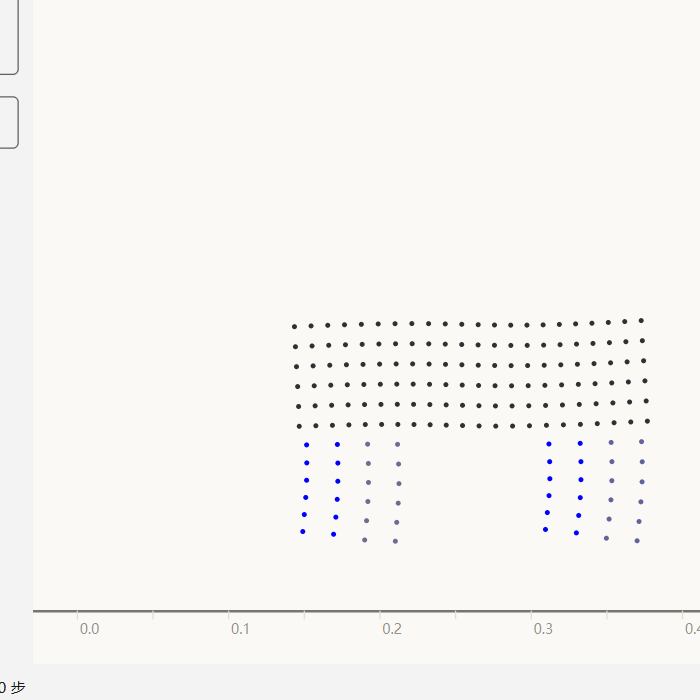
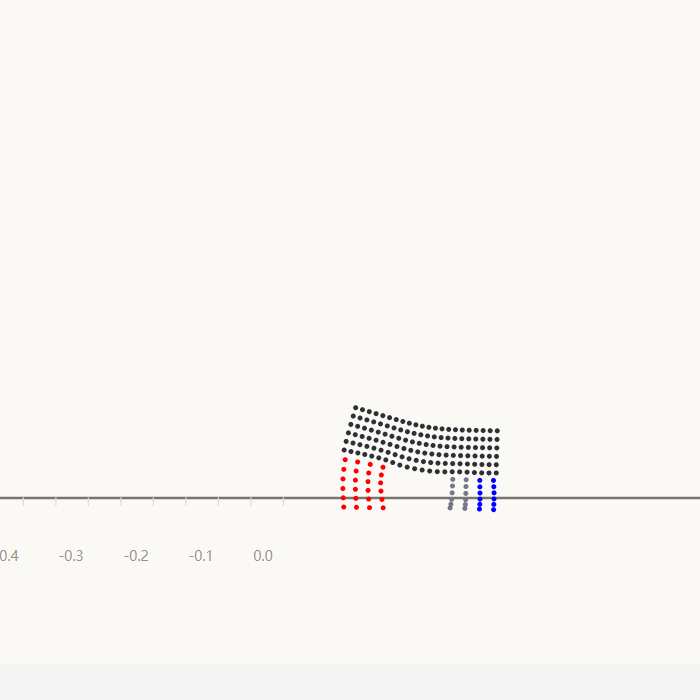
fix(softrobot): floor line at the wall, smaller robot, longer run
The MPM boundary is the bottom three cells of the grid, so the floor sits at y = 3/48 = 0.0625, not at zero - the drawn ground line was 37 px below the robot's feet. It now uses that offset, and the camera places it at 80 percent of the canvas height. The view is widened from 0.58 to 1.35 grid units so the robot reads smaller, and the run goes from 0.36 s to 0.6 s of simulated time (300 steps at dt 2e-3), which lets it travel further per generation: best distance 0.316 after ten generations against 0.291 before.

diff --git a/apps/Physics/SoftRobot.py b/apps/Physics/SoftRobot.py
@@ -6,7 +6,7 @@ import numpy as np
 
 # ==================== 可微 MPM 软体机器人 ====================
 N_GRID = 48
-MAX_STEPS = 180
+MAX_STEPS = 300
 DT = 2e-3
 E = 10.0
 MU = E
@@ -251,19 +251,22 @@ class RobotCanvas(QWidget):
         pos = traj[idx]
         # 相机跟随：视野宽度约 0.55 个网格单位
         cx = float(pos[:, 0].mean())
-        view_w = 0.58
-        scale = min(w / view_w, (h - 80) / (view_w * 0.62))
+        view_w = 1.35
+        scale = min(w / view_w, (h - 90) / (view_w * 0.55))
         left = cx - view_w / 2.0
 
         def X(v):
             return (v - left) * scale
 
-        def Y(v):
-            return h - 42 - v * scale
+        floor_y0 = 3.0 / self.app.robot.n_grid
 
-        # 地面
+        def Y(v):
+            return h * 0.80 - (v - floor_y0) * scale
+
+        # 地板：MPM 的墙是网格底部 3 格
+        floor_y = floor_y0
         p.setPen(QPen(QColor(120, 116, 110), 2))
-        p.drawLine(QPointF(0, Y(0.0)), QPointF(w, Y(0.0)))
+        p.drawLine(QPointF(0, Y(floor_y)), QPointF(w, Y(floor_y)))
         # 米尺
         p.setPen(QColor(160, 155, 148))
         f = p.font()
@@ -276,7 +279,7 @@ class RobotCanvas(QWidget):
             xx = X(v)
             if 0 < xx < w:
                 p.setPen(QPen(QColor(226, 222, 214), 1))
-                p.drawLine(QPointF(xx, Y(0.0)), QPointF(xx, Y(0.0) + 6))
+                p.drawLine(QPointF(xx, Y(floor_y)), QPointF(xx, Y(floor_y) + 6))
                 if abs(v * 10 - round(v * 10)) < 1e-6:
                     p.setPen(QColor(150, 145, 138))
                     p.drawText(QPointF(xx + 2, Y(0.0) + 18), f"{v:.1f}")
